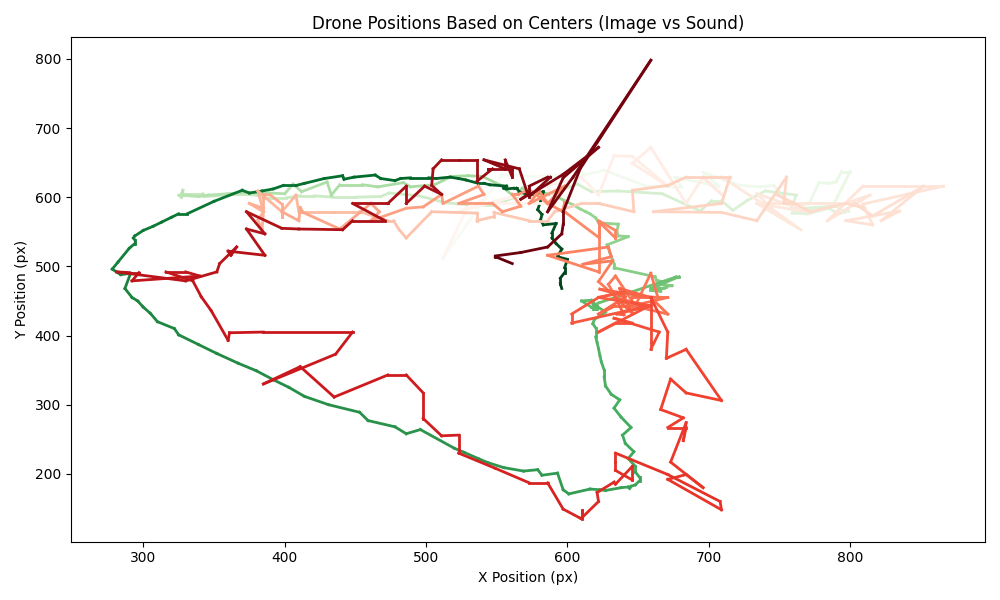
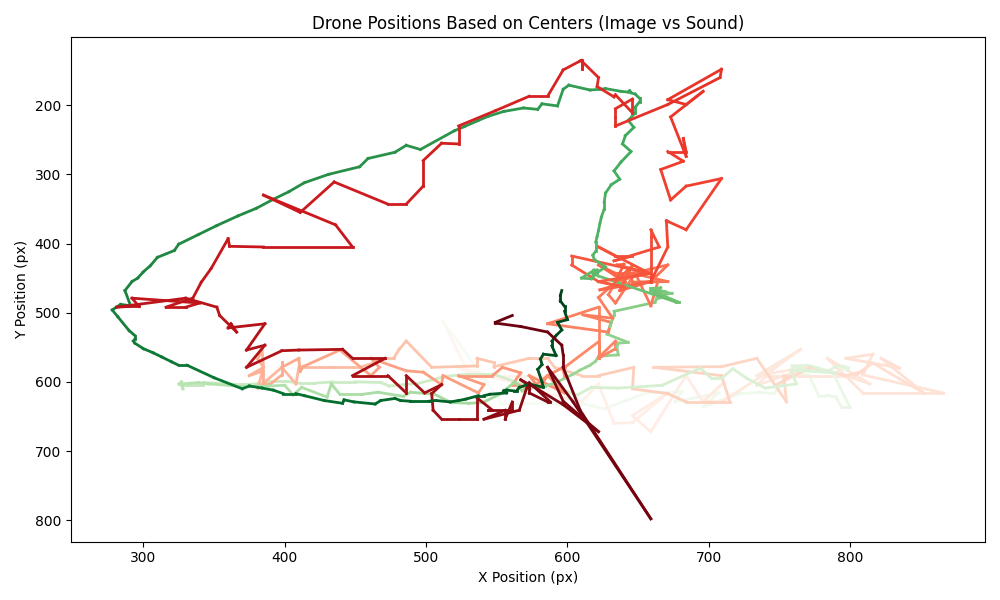
adding time layout

diff --git a/ai_detection/statistics_plotting.py b/ai_detection/statistics_plotting.py
@@ -73,8 +73,11 @@ def plot_drone_positions(centers_image, centers_sound):
 
     for i in range(1, len(centers_image)):
         plt.plot([image_x[i-1], image_x[i]], [image_y[i-1], image_y[i]], color=image_colors[i], lw=2)
-    for i in range(1, len(centers_sound)):
+        
         plt.plot([sound_x[i-1], sound_x[i]], [sound_y[i-1], sound_y[i]], color=sound_colors[i], lw=2)
+
+
+    plt.gca().invert_yaxis()
 
     plt.xlabel("X Position (px)")
     plt.ylabel("Y Position (px)")
@@ -85,6 +88,7 @@ def plot_drone_positions(centers_image, centers_sound):
     os.makedirs("./output/images", exist_ok=True)
     plt.savefig("./output/images/drone_positions.png")
     plt.close()
+
 
 def save_statistics(stats):
     os.makedirs("./output/measurements", exist_ok=True)
